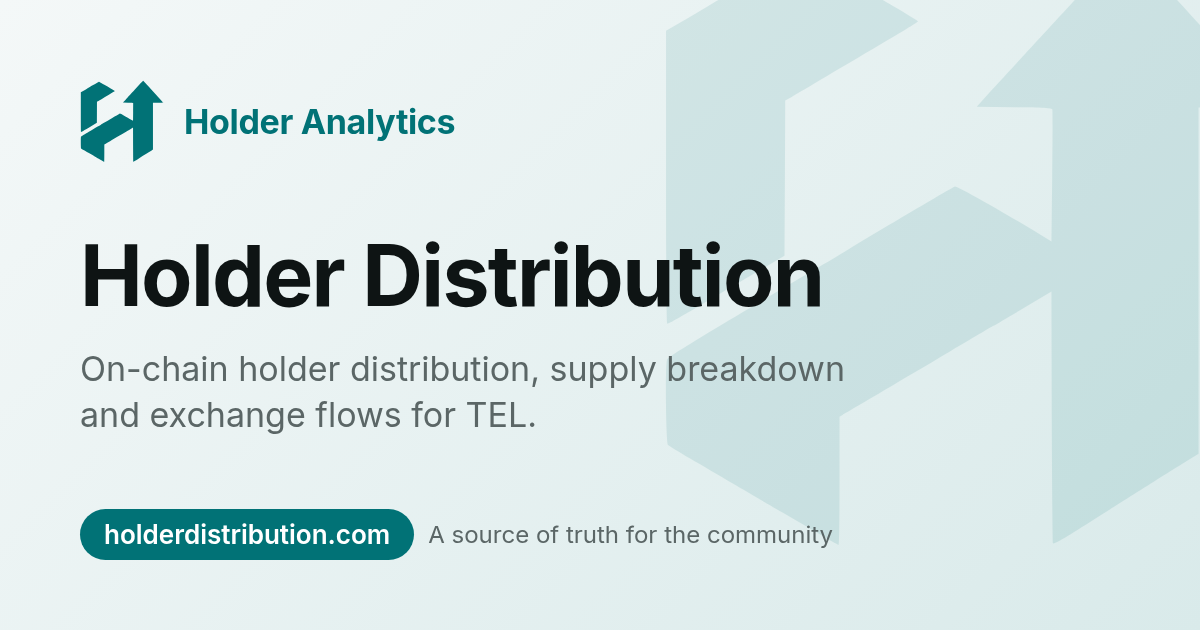
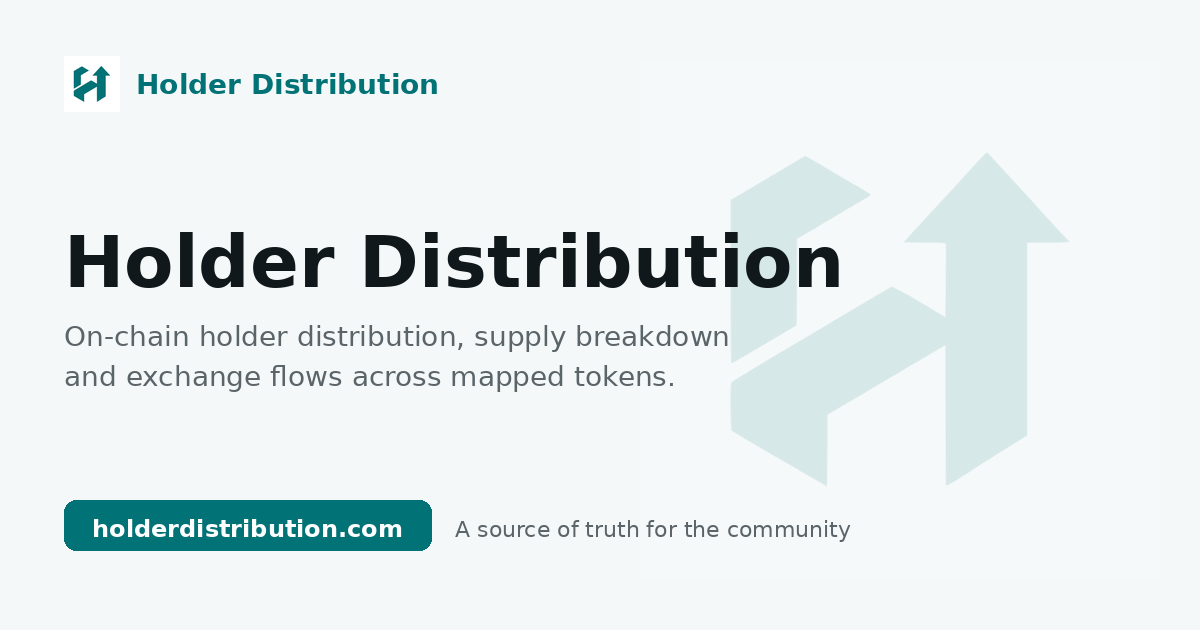
fix(meta): platform OG image without TEL, cache-bust preview URL
Replace og-image.png so link previews show Holder Distribution (no TEL
subtitle / old Hub card). Bump ?v= on og/twitter image URLs so scrapers
refetch instead of serving a cached TelcoinHub-era preview.

diff --git a/index.html b/index.html
@@ -31,7 +31,7 @@
     <meta property="og:description" content="Real, on-chain holder distribution, supply breakdown, and exchange flow data for crypto tokens — a source of truth for the community, not the project team.">
     <link rel="canonical" href="https://holderdistribution.com/">
     <meta property="og:url" content="https://holderdistribution.com/">
-    <meta property="og:image" content="https://holderdistribution.com/og-image.png">
+    <meta property="og:image" content="https://holderdistribution.com/og-image.png?v=20261025">
     <meta property="og:image:width" content="1200">
     <meta property="og:image:height" content="630">
     <meta property="og:image:alt" content="Holder Distribution — on-chain holder analytics for crypto tokens">
@@ -41,7 +41,7 @@
     <meta name="twitter:site" content="@holderdist">
     <meta name="twitter:title" content="Holder Distribution | Token Holder Analytics & Supply Data">
     <meta name="twitter:description" content="Real, on-chain holder distribution, supply breakdown, and exchange flow data for crypto tokens.">
-    <meta name="twitter:image" content="https://holderdistribution.com/og-image.png">
+    <meta name="twitter:image" content="https://holderdistribution.com/og-image.png?v=20261025">
     <meta name="twitter:image:alt" content="Holder Distribution — on-chain holder analytics for crypto tokens">
 
     <script type="application/ld+json">

diff --git a/src/hooks/usePageMeta.ts b/src/hooks/usePageMeta.ts
@@ -21,7 +21,7 @@ export const usePageMeta = ({
   title, 
   description, 
   canonicalPath,
-  ogImage = '/og-image.png',
+  ogImage = '/og-image.png?v=20261025',
   ogType,
   jsonLd,
 }: PageMetaProps) => {
